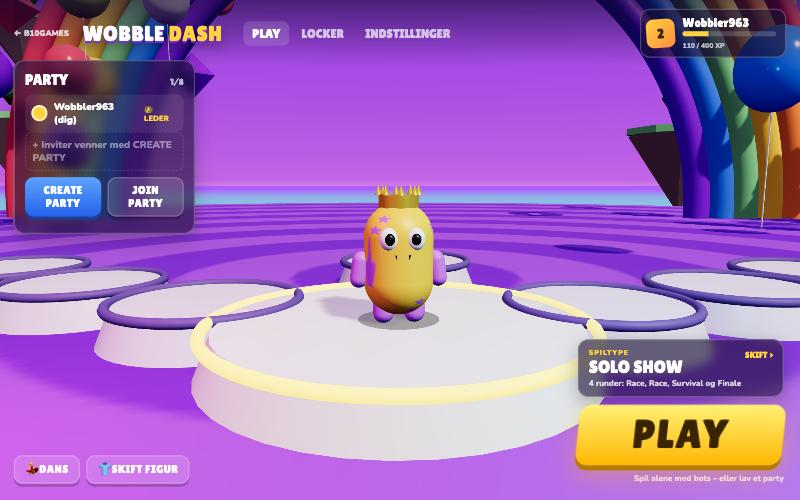
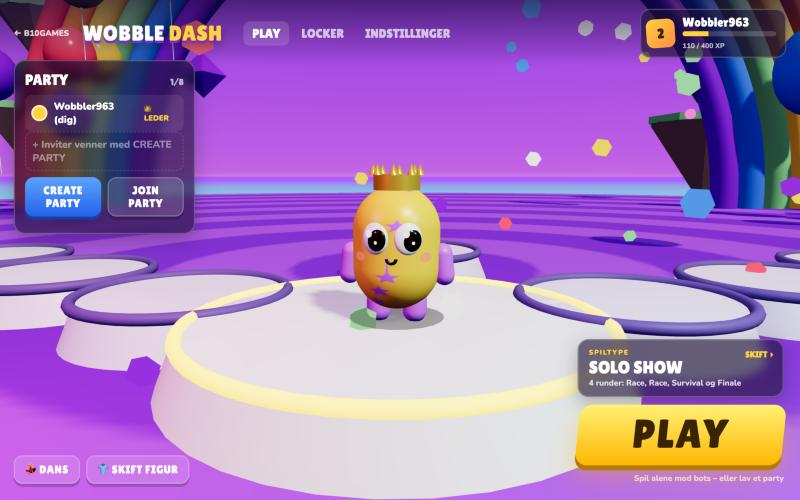
Wobble Dash: cuter characters with big shiny eyes, cheeks and new eye styles

diff --git a/games/wobble-dash/js/character.js b/games/wobble-dash/js/character.js
@@ -5,7 +5,7 @@ export const PALETTE = ['#ff4d6d', '#ff8c42', '#ffd23f', '#7bd389', '#2ec4b6', '
   '#f8f9fa', '#343a40', '#a0522d', '#00e5ff', '#b8f35b', '#ff9ebb', '#c77dff', '#ffb703'];
 export const PATTERNS = ['solid', 'stripes', 'dots', 'split', 'stars', 'zigzag', 'gradient', 'hearts'];
 export const HATS = ['none', 'cap', 'bunny', 'horns', 'halo', 'tophat', 'crown', 'propeller', 'cat', 'flower'];
-export const EYES = ['round', 'happy', 'sleepy', 'cool'];
+export const EYES = ['round', 'sparkle', 'happy', 'wink', 'sleepy', 'cool'];
 
 export function randomSkin(r = Math.random) {
   const p = PALETTE;
@@ -44,18 +44,42 @@ function heart(g, x, y, s) {
   g.bezierCurveTo(x + s * 0.4, y - s, x + s, y - s * 0.4, x, y + s * 0.4); g.fill();
 }
 
+const BODY_R = 0.45;
+// A soft ellipse that hugs the round body, used for the blushing cheeks.
+function cheekGeometry(angle, y, rx, ry) {
+  const g = new THREE.CircleGeometry(1, 24), p = g.attributes.position, R = BODY_R + 0.006;
+  for (let i = 0; i < p.count; i++) {
+    const a = angle + (p.getX(i) * rx) / R;
+    p.setXYZ(i, Math.sin(a) * R, y + p.getY(i) * ry, Math.cos(a) * R);
+  }
+  g.computeVertexNormals();
+  return g;
+}
 const GEO = {
-  body: new THREE.CapsuleGeometry(0.42, 0.52, 8, 20),
+  body: new THREE.CapsuleGeometry(BODY_R, 0.38, 10, 28),
   limb: new THREE.CapsuleGeometry(0.11, 0.22, 4, 10),
   leg: new THREE.CapsuleGeometry(0.13, 0.1, 4, 10),
-  eye: new THREE.SphereGeometry(0.115, 16, 12),
-  pupil: new THREE.SphereGeometry(0.06, 12, 8),
-  mouth: new THREE.TorusGeometry(0.075, 0.022, 6, 14, Math.PI),
+  eyeWhite: new THREE.SphereGeometry(0.14, 24, 16),
+  iris: new THREE.SphereGeometry(0.102, 20, 14),
+  pupil: new THREE.SphereGeometry(0.05, 14, 10),
+  shine: new THREE.SphereGeometry(1, 10, 8),
+  lid: new THREE.SphereGeometry(0.148, 20, 10, 0, Math.PI * 2, 0, Math.PI / 2),
+  arc: new THREE.TorusGeometry(0.072, 0.021, 8, 18, Math.PI),
+  bridge: new THREE.CylinderGeometry(0.016, 0.016, 0.06, 6),
+  mouth: new THREE.TorusGeometry(0.046, 0.016, 8, 16, Math.PI),
+  cheekL: cheekGeometry(-0.8, 0.0, 0.075, 0.045),
+  cheekR: cheekGeometry(0.8, 0.0, 0.075, 0.045),
   shadow: new THREE.CircleGeometry(0.5, 20)
 };
-const MAT_WHITE = new THREE.MeshStandardMaterial({ color: 0xffffff, roughness: 0.25 });
+const MAT_WHITE = new THREE.MeshStandardMaterial({ color: 0xffffff, roughness: 0.18 });
 const MAT_BLACK = new THREE.MeshStandardMaterial({ color: 0x111111, roughness: 0.3 });
+const MAT_IRIS = new THREE.MeshStandardMaterial({ color: 0x1f130d, roughness: 0.12 });
+const MAT_SPARKLE = new THREE.MeshStandardMaterial({ color: 0x5a48e6, roughness: 0.12, emissive: 0x2a1a80, emissiveIntensity: 0.35 });
+const MAT_LENS = new THREE.MeshStandardMaterial({ color: 0x111122, roughness: 0.08, metalness: 0.4 });
+const MAT_SHINE = new THREE.MeshBasicMaterial({ color: 0xffffff });
+const MAT_CHEEK = new THREE.MeshBasicMaterial({ color: 0xff6f9a, transparent: true, opacity: 0.5, depthWrite: false });
 const MAT_SHADOW = new THREE.MeshBasicMaterial({ color: 0x000000, transparent: true, opacity: 0.28, depthWrite: false });
+const EYE_X = 0.158, EYE_Y = 0.19, EYE_Z = 0.398;
 
 export class Character {
   constructor(skin) {
@@ -63,33 +87,25 @@ export class Character {
     this.pivot = new THREE.Group();         // hips: tilt, flips, tumbles
     this.pivot.position.y = 0.72;
     this.root.add(this.pivot);
-    this.bodyMat = new THREE.MeshStandardMaterial({ roughness: 0.42, metalness: 0.02 });
-    this.limbMat = new THREE.MeshStandardMaterial({ roughness: 0.45 });
+    this.bodyMat = new THREE.MeshStandardMaterial({ roughness: 0.36, metalness: 0.02 });
+    this.limbMat = new THREE.MeshStandardMaterial({ roughness: 0.4 });
     this.body = new THREE.Mesh(GEO.body, this.bodyMat);
     this.body.position.y = 0.05;
+    this.body.rotation.y = Math.PI;          // texture seam at the back, not across the face
     this.pivot.add(this.body);
-    // face
+    // face: big shiny eyes, rosy cheeks and a small smile
     this.face = new THREE.Group();
-    this.face.position.set(0, 0.3, 0.33);
     this.pivot.add(this.face);
-    this.eyes = [];
-    for (const s of [-1, 1]) {
-      const e = new THREE.Mesh(GEO.eye, MAT_WHITE);
-      e.position.set(0.15 * s, 0.02, 0.03);
-      e.scale.set(1, 1.15, 0.7);
-      const p = new THREE.Mesh(GEO.pupil, MAT_BLACK);
-      p.position.set(0, 0, 0.085);
-      e.add(p);
-      this.face.add(e);
-      this.eyes.push(e);
-    }
+    this.eyes = []; this.irises = [];
+    this.cheeks = [new THREE.Mesh(GEO.cheekL, MAT_CHEEK), new THREE.Mesh(GEO.cheekR, MAT_CHEEK)];
+    this.face.add(...this.cheeks);
     this.mouth = new THREE.Mesh(GEO.mouth, MAT_BLACK);
-    this.mouth.position.set(0, -0.16, 0.06);
+    this.mouth.position.set(0, -0.005, BODY_R - 0.006);
     this.mouth.rotation.z = Math.PI;
     this.face.add(this.mouth);
     // arms (pivot at shoulder) and legs (pivot at hip)
     this.arms = [-1, 1].map(s => {
-      const a = new THREE.Group(); a.position.set(0.44 * s, 0.12, 0);
+      const a = new THREE.Group(); a.position.set(0.46 * s, 0.08, 0);
       const m = new THREE.Mesh(GEO.limb, this.limbMat); m.position.y = -0.2; a.add(m);
       this.pivot.add(a); a.userData.s = s; return a;
     });
@@ -99,16 +115,17 @@ export class Character {
       this.pivot.add(l); return l;
     });
     this.hat = new THREE.Group();
-    this.hat.position.y = 0.72;
+    this.hat.position.y = 0.7;
     this.pivot.add(this.hat);
     this.shadow = new THREE.Mesh(GEO.shadow, MAT_SHADOW);
     this.shadow.rotation.x = -Math.PI / 2;
     this.shadow.position.y = 0.03;
     this.root.add(this.shadow);
-    this.root.traverse(o => { if (o.isMesh && o !== this.shadow) o.castShadow = true; });
+    this.root.traverse(o => { if (o.isMesh && o !== this.shadow && !this.cheeks.includes(o)) o.castShadow = true; });
     // animation state
     this.phase = 0; this.sq = 1; this.sqV = 0; this.lean = 0; this.flip = 0; this.roll = 0;
     this.tumble = new THREE.Vector3(); this.wasGrounded = true; this.t = Math.random() * 10; this.blinkT = 2;
+    this.lookT = 1; this.look = new THREE.Vector2(); this.lookTo = new THREE.Vector2();
     this.setSkin(skin);
   }
 
@@ -117,10 +134,47 @@ export class Character {
     const tex = skinTexture(this.skin);
     this.bodyMat.map = tex; this.bodyMat.color.set('#ffffff'); this.bodyMat.needsUpdate = true;
     this.limbMat.color.set(this.skin.pattern === 'solid' ? shade(this.skin.c1, -0.12) : this.skin.c2);
-    // eyes
-    const e = this.skin.eyes;
-    this.eyes.forEach(eye => { eye.scale.set(1, e === 'sleepy' ? 0.55 : e === 'happy' ? 0.8 : 1.15, 0.7); eye.children[0].scale.setScalar(e === 'cool' ? 1.5 : 1); });
+    this.buildEyes(EYES.includes(this.skin.eyes) ? this.skin.eyes : 'round');
     this.buildHat(this.skin.hat);
+  }
+
+  // Each eye is a group that sits on the round face and turns a little outward.
+  buildEyes(type) {
+    for (const e of this.eyes) e.removeFromParent();
+    this.eyes = []; this.irises = [];
+    const mesh = (geo, mat, x, y, z, sx = 1, sy = 1, sz = 1) => { const m = new THREE.Mesh(geo, mat); m.position.set(x, y, z); m.scale.set(sx, sy, sz); return m; };
+    for (const s of [-1, 1]) {
+      const g = new THREE.Group();
+      g.position.set(EYE_X * s, EYE_Y, EYE_Z);
+      g.rotation.set(-0.08, 0.36 * s, 0);
+      const closed = type === 'happy' || (type === 'wink' && s < 0);
+      g.userData.blinks = !closed && type !== 'cool';
+      if (closed) {
+        // happy closed eye: a little upside-down U
+        g.add(mesh(GEO.arc, MAT_BLACK, 0, -0.02, 0.045, 1.05, 1, 1));
+      } else if (type === 'cool') {
+        g.add(mesh(GEO.eyeWhite, MAT_LENS, 0, 0.01, 0, 1.02, 0.8, 0.44));
+        const streak = mesh(GEO.shine, MAT_SHINE, -0.045, 0.045, 0.06, 0.05, 0.016, 0.01); streak.rotation.z = 0.6; g.add(streak);
+        g.add(mesh(GEO.shine, MAT_SHINE, 0.06, -0.035, 0.055, 0.016, 0.016, 0.01));
+      } else {
+        g.add(mesh(GEO.eyeWhite, MAT_WHITE, 0, 0, 0, 1, 1.15, 0.42));
+        const iris = new THREE.Group();
+        const sparkle = type === 'sparkle';
+        iris.add(mesh(GEO.iris, sparkle ? MAT_SPARKLE : MAT_IRIS, 0, 0, 0, sparkle ? 1.08 : 1, sparkle ? 1.2 : 1.1, 0.36));
+        if (sparkle) iris.add(mesh(GEO.pupil, MAT_IRIS, 0, -0.01, 0.018, 1, 1.15, 0.3));
+        iris.position.set(0, type === 'sleepy' ? -0.03 : -0.012, 0.03);
+        iris.userData.base = iris.position.clone();
+        g.add(iris); this.irises.push(iris);
+        // shines: one big, one small, and an extra twinkle for sparkle eyes
+        g.add(mesh(GEO.shine, MAT_SHINE, -0.036, 0.045, 0.068, 0.036, 0.04, 0.012));
+        g.add(mesh(GEO.shine, MAT_SHINE, 0.036, -0.042, 0.066, 0.018, 0.018, 0.01));
+        if (sparkle) g.add(mesh(GEO.shine, MAT_SHINE, 0.042, 0.04, 0.066, 0.012, 0.012, 0.01));
+        if (type === 'sleepy') { const lid = mesh(GEO.lid, this.limbMat, 0, 0.004, 0, 1, 1.15, 0.47); lid.rotation.x = 0.55; g.add(lid); }
+      }
+      g.traverse(o => { if (o.isMesh) o.castShadow = false; });
+      this.face.add(g); this.eyes.push(g);
+    }
+    if (type === 'cool') { const b = mesh(GEO.bridge, MAT_LENS, 0, EYE_Y + 0.02, BODY_R + 0.006); b.rotation.z = Math.PI / 2; b.userData.bridge = true; this.eyes.push(b); this.face.add(b); }
   }
 
   buildHat(type) {
@@ -206,9 +260,14 @@ export class Character {
     this.blinkT -= dt;
     const blink = this.blinkT < 0.12 ? 0.1 : 1;
     if (this.blinkT < 0) this.blinkT = 2 + Math.random() * 3;
-    const ey = this.skin.eyes === 'sleepy' ? 0.55 : this.skin.eyes === 'happy' ? 0.8 : 1.15;
-    this.eyes.forEach(e => { e.scale.y = st.stun > 0 ? 0.25 : ey * blink; });
+    this.eyes.forEach(e => { if (e.userData.blinks) e.scale.y = st.stun > 0 ? 0.3 : blink; });
+    // the eyes look around now and then
+    this.lookT -= dt;
+    if (this.lookT < 0) { this.lookT = 0.8 + Math.random() * 2.2; this.lookTo.set(Math.random() < 0.45 ? 0 : (Math.random() - 0.5) * 0.05, (Math.random() - 0.5) * 0.024); }
+    this.look.x = damp(this.look.x, this.lookTo.x, 14, dt); this.look.y = damp(this.look.y, this.lookTo.y, 14, dt);
+    this.irises.forEach(i => { i.position.x = i.userData.base.x + this.look.x; i.position.y = i.userData.base.y + this.look.y; });
     this.mouth.rotation.z = st.stun > 0 || st.sad ? 0 : Math.PI;
+    this.mouth.scale.setScalar(st.celebrate || st.dance ? 1.35 : 1);
     this.hat.children.forEach(h => { if (h.userData.spin) h.rotation.y += dt * h.userData.spin * (h.userData.spin > 5 ? 1 + speed * 0.3 : 1); });
     // blob shadow stays on the ground below
     this.shadow.position.y = 0.03 - (st.groundDist || 0);

diff --git a/games/wobble-dash/js/main.js b/games/wobble-dash/js/main.js
@@ -172,8 +172,8 @@ function tickLobby(dt) {
   if (L.confettiT < 0) { L.confettiT = 6 + Math.random() * 6; L.fx.confetti(new THREE.Vector3((Math.random() - 0.5) * 14, 6, -3), 60, 10); }
   L.fx.update(dt);
   const locker = $('locker').classList.contains('on');
-  const tp = locker ? new THREE.Vector3(1.0, 1.7, 3.9) : new THREE.Vector3(Math.sin(L.t * 0.15) * 0.5, 2.15 + Math.sin(L.t * 0.2) * 0.12, 6.4);
-  const tl = locker ? new THREE.Vector3(1.0, 1.05, 0) : new THREE.Vector3(0, 1.3, -0.6);
+  const tp = locker ? new THREE.Vector3(1.0, 1.7, 3.9) : new THREE.Vector3(Math.sin(L.t * 0.15) * 0.45, 1.95 + Math.sin(L.t * 0.2) * 0.1, 5.5);
+  const tl = locker ? new THREE.Vector3(1.0, 1.05, 0) : new THREE.Vector3(0, 1.15, -0.6);
   L.cam.pos.lerp(tp, 1 - Math.exp(-dt * 4)); L.cam.look.lerp(tl, 1 - Math.exp(-dt * 4));
   camera.position.copy(L.cam.pos); camera.lookAt(L.cam.look);
   if (camera.fov !== 50) { camera.fov = 50; camera.updateProjectionMatrix(); }
@@ -280,7 +280,7 @@ $('meCard').onclick = openSettings;
 // ---------- locker ----------
 let lockerTab = 'c1';
 const LTABS = { c1: 'FARVE 1', c2: 'FARVE 2', pattern: 'MØNSTER', hat: 'HAT', eyes: 'ØJNE', random: '🎲 TILFÆLDIG' };
-const ICONS = { none: '∅', cap: '🧢', bunny: '🐰', horns: '😈', halo: '😇', tophat: '🎩', crown: '👑', propeller: '🚁', cat: '🐱', flower: '🌸', round: '👀', happy: '😊', sleepy: '😴', cool: '😎',
+const ICONS = { none: '∅', cap: '🧢', bunny: '🐰', horns: '😈', halo: '😇', tophat: '🎩', crown: '👑', propeller: '🚁', cat: '🐱', flower: '🌸', round: '👀', sparkle: '🤩', happy: '😊', wink: '😉', sleepy: '😴', cool: '😎',
   solid: '⬤', stripes: '▤', dots: '⠿', split: '◐', stars: '★', zigzag: '〰', gradient: '▒', hearts: '♥' };
 function buildLocker() {
   const tabs = $('ltabs'); tabs.innerHTML = '';
